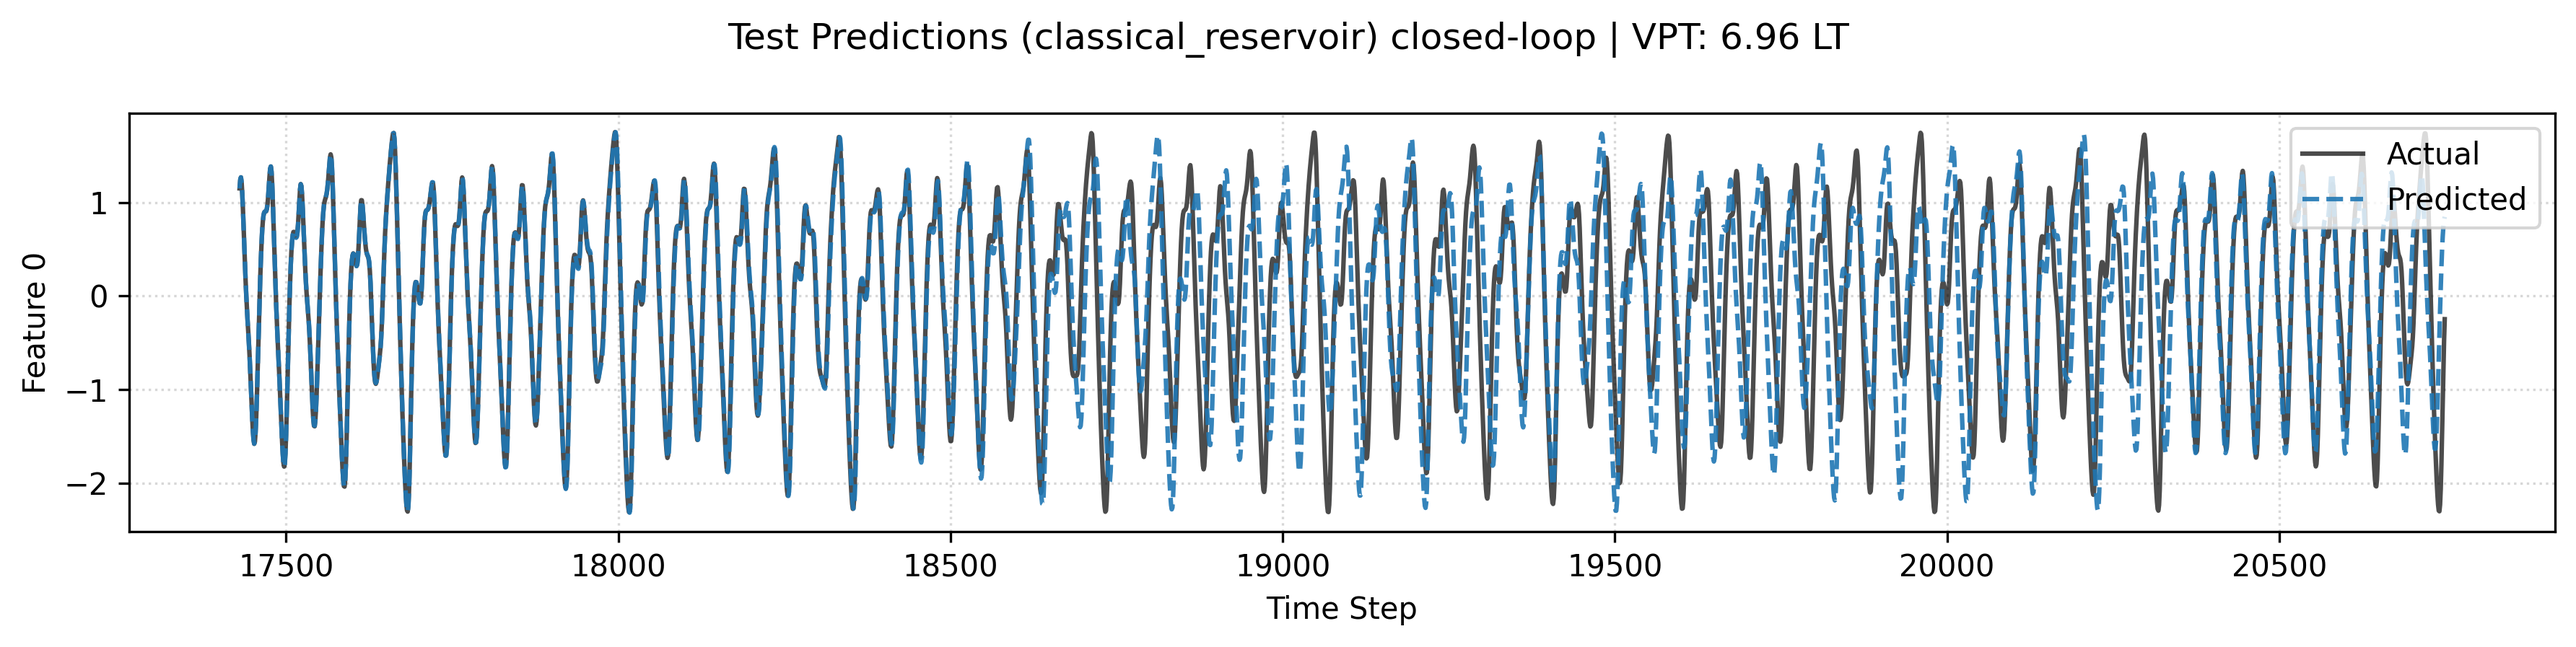
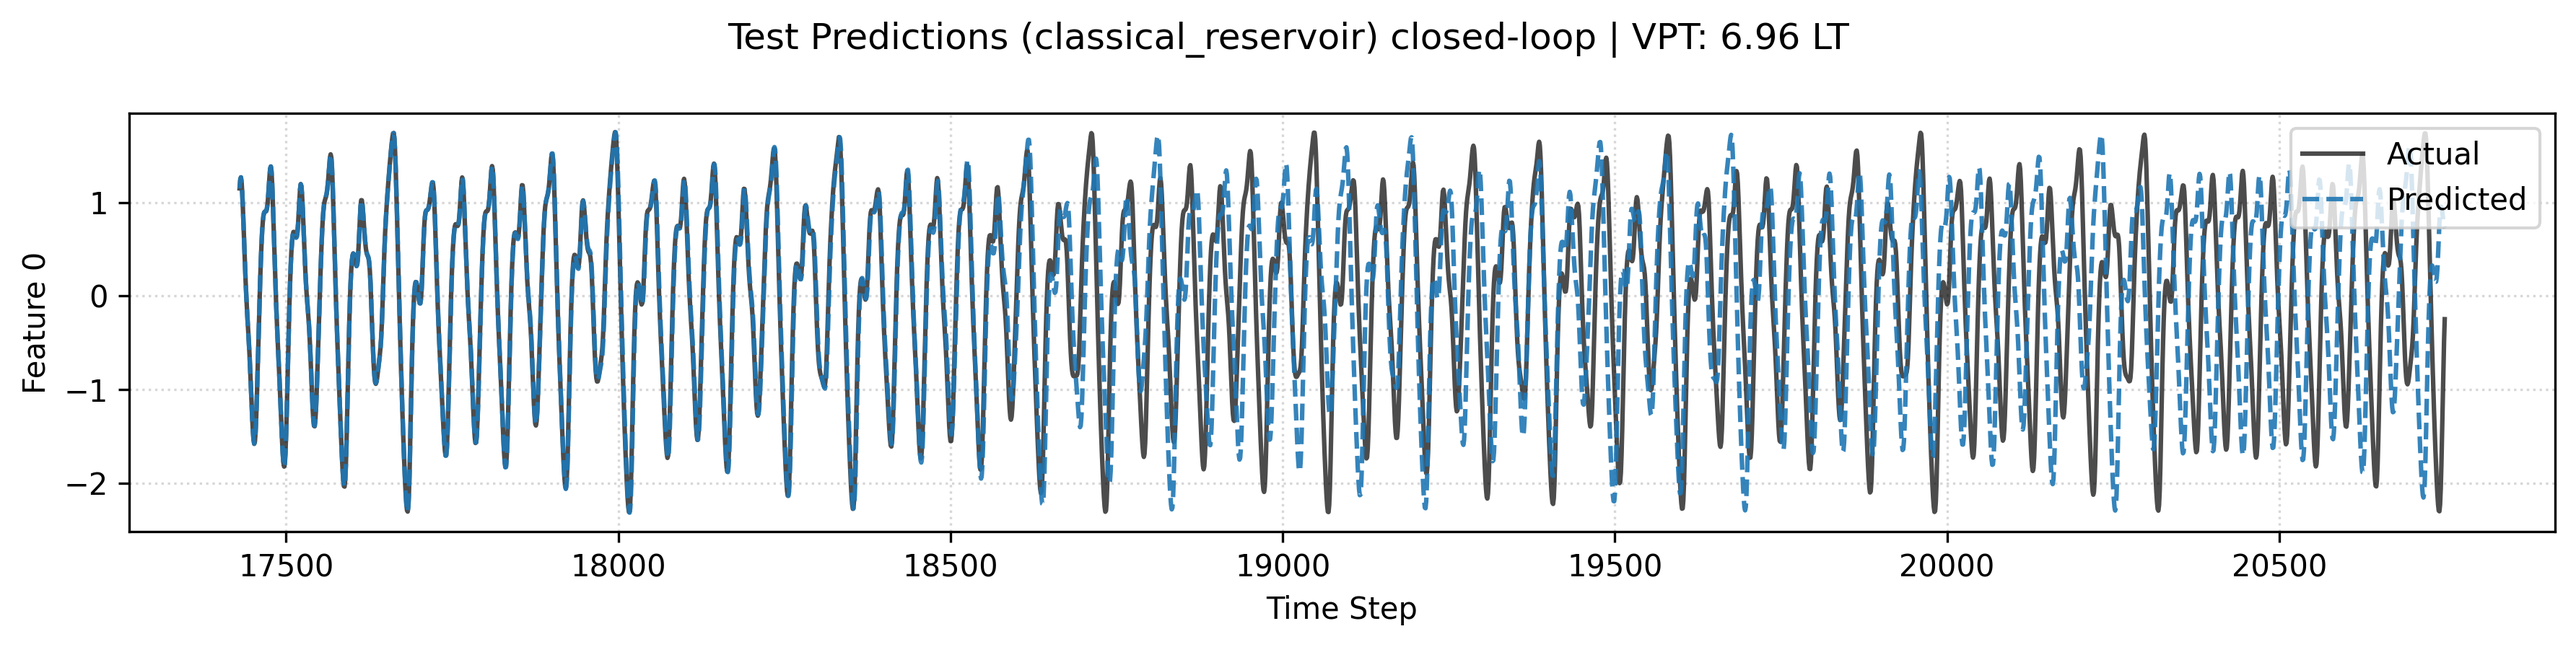
x64 works 2times better omg

Changed region(s): [[0.5287, 0.2185, 0.9641, 0.7804]]

diff --git a/src/reservoir/models/reservoir/quantum/model.py b/src/reservoir/models/reservoir/quantum/model.py
@@ -24,7 +24,6 @@ class QuantumReservoir(Reservoir):
     - Core Logic (`_step_logic`) is separated from JIT wrappers.
     - `_forward_jit` fuses the scan loop via XLA (no nested JIT).
     - Zero-overhead recompilation (Parameters passed as arguments).
-    - Strict Float32/Complex64 memory usage.
     """
 
     def __init__(
@@ -98,7 +97,7 @@ class QuantumReservoir(Reservoir):
             maxval=2 * jnp.pi,
             shape=(self.n_layers, self.n_qubits, 3)
         )
-        self.initial_state_vector = jnp.zeros(self.n_qubits, dtype=jnp.float32)
+        self.initial_state_vector = jnp.zeros(self.n_qubits, dtype=jnp.float_)
 
     def _compute_measurement_matrix_vectorized(self) -> jnp.ndarray:
         """Vectorized Precomputation of Parity/Measurement Matrix."""
@@ -107,7 +106,7 @@ class QuantumReservoir(Reservoir):
         
         shifts = self.n_qubits - 1 - jnp.arange(self.n_qubits)
         bits = (basis_states[:, None] >> shifts[None, :]) & 1
-        z_values = (1 - 2 * bits).astype(jnp.float32)
+        z_values = (1 - 2 * bits).astype(jnp.float_)
         
         row_blocks = []
         if self.measurement_basis in ("Z", "Z+ZZ"):
@@ -149,9 +148,9 @@ class QuantumReservoir(Reservoir):
 
     @staticmethod
     def _prepare_input(inputs: Union[jnp.ndarray, Array]) -> Tuple[jnp.ndarray, bool]:
-        """Preprocess input: cast to float32 and ensure 3D shape (Batch, Time, Feat)."""
-        # Cast to float32 to ensure consistent dtypes in scan (even if x64 is enabled)
-        arr = jnp.asarray(inputs, dtype=jnp.float32)
+        """Preprocess input: cast to float64 and ensure 3D shape (Batch, Time, Feat)."""
+        # Cast to float_ to match global JAX config (float64)
+        arr = jnp.asarray(inputs, dtype=jnp.float_)
         input_was_2d = (arr.ndim == 2)
         if input_was_2d:
             arr = arr[None, :, :]
@@ -160,7 +159,7 @@ class QuantumReservoir(Reservoir):
         return arr, input_was_2d
 
     def initialize_state(self, batch_size: int = 1) -> Union[jnp.ndarray, Tuple[jnp.ndarray, jnp.ndarray]]:
-        state = jnp.zeros((batch_size, self.n_qubits), dtype=jnp.float32)
+        state = jnp.zeros((batch_size, self.n_qubits), dtype=jnp.float_)
         if self.n_trajectories > 0:
             # Monte Carlo Mode: Return (state, key) tuple
             # Update internal RNG state to ensure fresh noise per batch
@@ -286,7 +285,6 @@ class QuantumReservoir(Reservoir):
         split_name: Optional[str] = None,
         **_: Any
     ) -> Float[Array, "batch out_features"] | Float[Array, "batch time out_features"] | Float[Array, "time out_features"]:
-        # Cast to float32 to ensure consistent dtypes in scan (even if x64 is enabled)
         arr, input_was_2d = self._prepare_input(inputs)
         
         batch_size = arr.shape[0]

diff --git a/benchmarks/optimize_rc.py b/benchmarks/optimize_rc.py
@@ -23,6 +23,9 @@ from typing import Any, Dict
 
 import numpy as np
 import optuna
+import jax
+
+jax.config.update("jax_enable_x64", True)
 
 from reservoir.pipelines import run_pipeline
 from reservoir.models.presets import (
@@ -103,17 +106,35 @@ def make_objective(readout_config):
         """
         Optuna objective function.
         """
+        # === 0. Fix Random State for Determinism ===
+        # Even though config has seeds, some legacy/global state might drift.
+        # We force a global re-seed based on trial number or fixed seed to ensure
+        # that IF parameters are identical, the result is identical.
+        import random
+        # Use a seed that depends on trial.number to be deterministic per trial
+        # OR use a fixed seed if we want to debug identicalness.
+        # Here we use a fixed seed + trial.number so each trial is unique but reproducible.
+        seed = 42 + trial.number
+        random.seed(seed)
+        np.random.seed(seed)
+        
         # === 1. Suggest Parameters ===
         
         # Projection
-        input_scale = trial.suggest_float("input_scale", 1.15, 1.25)
-        input_connectivity = trial.suggest_float("input_connectivity", 0.14, 0.2)
-        bias_scale = trial.suggest_float("bias_scale", 0.95, 1.05)
-        
+        # input_scale = trial.suggest_float("input_scale", 1.15, 1.25)
+        # input_connectivity = trial.suggest_float("input_connectivity", 0.14, 0.2)
+        # bias_scale = trial.suggest_float("bias_scale", 0.95, 1.05)
+        input_scale=1.2019208858978183
+        input_connectivity=0.1928267681965625
+        bias_scale=0.9568959152230178
+
         # Reservoir
-        spectral_radius = trial.suggest_float("spectral_radius", 1.5, 1.8)
-        leak_rate = trial.suggest_float("leak_rate", 0.35, 0.45)
-        rc_connectivity = trial.suggest_float("rc_connectivity", 0.6, 1)
+        spectral_radius=1.5972788236034943
+        leak_rate= 0.39768734461610455
+        rc_connectivity= 0.9244981889173147
+        # spectral_radius = trial.suggest_float("spectral_radius", 1.5, 1.8)
+        # leak_rate = trial.suggest_float("leak_rate", 0.35, 0.45)
+        # rc_connectivity = trial.suggest_float("rc_connectivity", 0.6, 1)
 
         # === 2. Build Config ===
         config = build_config(

diff --git a/src/reservoir/data/loaders.py b/src/reservoir/data/loaders.py
@@ -305,11 +305,26 @@ def load_dataset_with_validation_split(
     #                 f"Got shape {arr.shape} for split '{split_name}'. Please reshape your data source."
     #             )
 
+    # Local Warmup to ensure JAX is ready for float64 (Silent)
+    import jax
+    import warnings
+    try:
+        with warnings.catch_warnings():
+            warnings.simplefilter("ignore")
+            # Force a float64 creation to verify/trigger backend capability
+            dummy = jnp.array([1.0], dtype=jnp.float64)
+            if dummy.dtype != jnp.float64:
+                 jax.config.update("jax_enable_x64", True)
+    except Exception:
+        jax.config.update("jax_enable_x64", True)
+
+    # Cast to float64 (jnp.float_) to ensure precision at entry
+    # Note: jnp.asarray respects jax_enable_x64. If True, float_ is float64.
     return SplitDataset(
-        train_X=jnp.asarray(train_X),
-        train_y=jnp.asarray(train_y),
-        test_X=jnp.asarray(test_X),
-        test_y=jnp.asarray(test_y),
-        val_X=jnp.asarray(val_X),
-        val_y=jnp.asarray(val_y),
+        train_X=jnp.asarray(train_X, dtype=jnp.float_),
+        train_y=jnp.asarray(train_y, dtype=jnp.float_),
+        test_X=jnp.asarray(test_X, dtype=jnp.float_),
+        test_y=jnp.asarray(test_y, dtype=jnp.float_),
+        val_X=jnp.asarray(val_X, dtype=jnp.float_),
+        val_y=jnp.asarray(val_y, dtype=jnp.float_),
     )

diff --git a/src/reservoir/cli/main.py b/src/reservoir/cli/main.py
@@ -6,8 +6,34 @@ from __future__ import annotations
 import argparse
 import sys
 
+import jax
+
+# Ensure x64 is enabled before any other JAX ops
+if not jax.config.jax_enable_x64:
+    jax.config.update("jax_enable_x64", True)
+print(f"[DEBUG] CLI: JAX x64 is {jax.config.jax_enable_x64}")
+
+def verify_and_warmup_x64():
+    """Aggressively verify and force JAX x64 backend initialization."""
+    import jax.numpy as jnp
+    import numpy as np
+    
+    # Try 3 times to force it
+    for i in range(3):
+        try:
+            x = jnp.array([1.0], dtype=jnp.float64)
+            if x.dtype != jnp.float64:
+                raise ValueError(f"Created array dtype is {x.dtype}, expected float64")
+            return
+        except Exception:
+            # Force update again
+            jax.config.update("jax_enable_x64", True)
+            # Maybe some dummy op triggers update
+            _ = jnp.array([0.0]) 
+
+verify_and_warmup_x64()
+
 from reservoir.training import get_training_preset
-from reservoir.utils import check_gpu_available
 from reservoir.core.identifiers import Model, Dataset
 from reservoir.pipelines import run_pipeline
 from reservoir.models.presets import get_model_preset

diff --git a/src/reservoir/models/presets.py b/src/reservoir/models/presets.py
@@ -254,15 +254,15 @@ TIME_CLASSICAL_RESERVOIR_PRESET = PipelineConfig(
     preprocess=StandardScalerConfig(),
     projection=RandomProjectionConfig(
         n_units=400,
-        input_scale=1.1808661406250922,
-        input_connectivity=0.13588027912024847,
-        bias_scale=1.0029669118717532,
+        input_scale=1.2019208858978183,
+        input_connectivity=0.1928267681965625,
+        bias_scale=0.9568959152230178,
         seed=1,
     ),
     model=ClassicalReservoirConfig(
-        spectral_radius=1.616,
-        leak_rate=0.41848915914774804,
-        rc_connectivity=0.677,
+        spectral_radius=1.5972788236034943,
+        leak_rate= 0.39768734461610455,
+        rc_connectivity= 0.9244981889173147,
         seed=42,
         aggregation=AggregationMode.SEQUENCE,
     ),

diff --git a/benchmarks/sparse_benchmark.py b/benchmarks/sparse_benchmark.py
@@ -24,7 +24,7 @@ def compute_measurement_matrix_dense(n_qubits, measurement_basis="Z+ZZ"):
     
     shifts = n_qubits - 1 - jnp.arange(n_qubits)
     bits = (basis_states[:, None] >> shifts[None, :]) & 1
-    z_values = (1 - 2 * bits).astype(jnp.float32)
+    z_values = (1 - 2 * bits)
     
     row_blocks = []
     if measurement_basis in ("Z", "Z+ZZ"):
@@ -64,7 +64,7 @@ def run_benchmark():
     
     for n in qubits_range:
         dim = 2**n
-        prob_vec = jax.random.normal(jax.random.key(0), (dim,)).astype(jnp.float32)
+        prob_vec = jax.random.normal(jax.random.key(0), (dim,))
         prob_vec = jnp.abs(prob_vec) / jnp.sum(jnp.abs(prob_vec))
         
         # --- Dense ---

diff --git a/src/reservoir/models/reservoir/quantum/functional.py b/src/reservoir/models/reservoir/quantum/functional.py
@@ -202,11 +202,11 @@ def _make_circuit_logic(
         # final_state is Density Matrix (2^N, 2^N)
         # Probabilities are diagonal elements.
         probs = jnp.real(jnp.diag(cast(jnp.ndarray, final_state)))
-        return probs.astype(jnp.float32)
+        return probs.astype(jnp.float_)
     else:
         # Pure State (Clean or MC)
         # final_state is Vector (2^N,)
-        return (jnp.abs(cast(jnp.ndarray, final_state)) ** 2).astype(jnp.float32)
+        return (jnp.abs(cast(jnp.ndarray, final_state)) ** 2).astype(jnp.float_)
 
 
 def _step_logic(

diff --git a/src/reservoir/models/reservoir/quantum/backend.py b/src/reservoir/models/reservoir/quantum/backend.py
@@ -17,9 +17,11 @@ def _ensure_tensorcircuit_initialized(precision: str = "complex64") -> None:
     """
     global _TC_INITIALIZED
     
-    # Enable x64 if needed for complex128
+    # Remove local x64 toggle - rely on global init in __init__.py
     if precision == "complex128":
-        jax.config.update("jax_enable_x64", True)
+        # Double check, but don't toggle if already set globally
+        if not jax.config.jax_enable_x64:
+             jax.config.update("jax_enable_x64", True)
 
     if _TC_INITIALIZED:
         if precision != tc.dtypestr:

diff --git a/src/reservoir/pipelines/strategies.py b/src/reservoir/pipelines/strategies.py
@@ -32,8 +32,8 @@ class ReadoutStrategy(ABC):
         """Prepare seed for closed-loop (concat train+val)."""
         if val_X is not None:
             axis = 1 if train_X.ndim == 3 else 0
-            return jnp.concatenate([jnp.asarray(train_X, dtype=jnp.float32), jnp.asarray(val_X, dtype=jnp.float32)], axis=axis)
-        return jnp.asarray(train_X, dtype=jnp.float32)
+            return jnp.concatenate([jnp.asarray(train_X), jnp.asarray(val_X)], axis=axis)
+        return jnp.asarray(train_X)
 
     @abstractmethod
     def fit_and_evaluate(

diff --git a/src/reservoir/layers/projection.py b/src/reservoir/layers/projection.py
@@ -32,7 +32,7 @@ class Projection(abc.ABC):
         Apply the projection to the inputs.
         template method: validates input shape then calls _forward.
         """
-        arr = jnp.asarray(inputs)
+        arr = jnp.asarray(inputs, dtype=jnp.float_)
         if arr.ndim not in (2, 3):
              raise ValueError(f"{self.__class__.__name__} expects 2D or 3D input, got shape {arr.shape}")
         return self._project(arr)

diff --git a/src/reservoir/models/generative.py b/src/reservoir/models/generative.py
@@ -54,7 +54,6 @@ class ClosedLoopGenerativeModel(ABC):
             2D predictions (steps, Features)
         """
         # Convert 2D to 3D for internal processing
-        # Cast to float32 to ensure scan carry consistency (even after x64 is enabled)
         history = jnp.asarray(seed_data)
         if history.ndim == 2:
             history = history[None, :, :]  # (T, F) -> (1, T, F)

diff --git a/src/reservoir/pipelines/run.py b/src/reservoir/pipelines/run.py
@@ -10,6 +10,10 @@ Architecture V2 Compliance:
 from typing import Any, Dict, Optional
 
 # Core Imports
+import jax
+# Enable x64 globally for consistency and precision in all pipeline runs
+jax.config.update("jax_enable_x64", True)
+
 from reservoir.core.identifiers import Dataset
 from reservoir.models.presets import PipelineConfig
 from reservoir.training.presets import TrainingConfig
